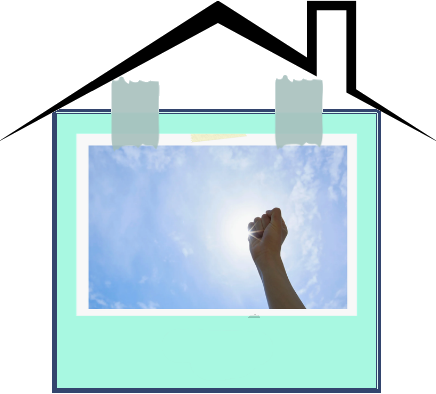
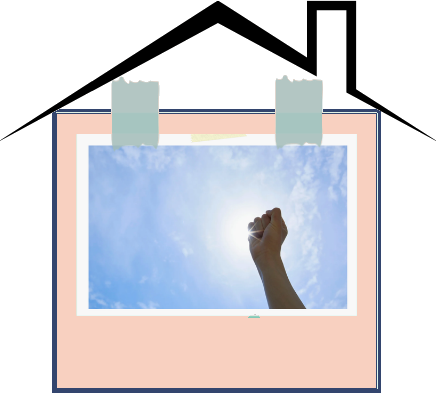
Design updates: home page, subjects page empty-state sheet, header, styles, house images

Changed region(s): [[0.1193, 0.2741, 0.8647, 1.0], [0.3578, 0.2741, 0.656, 0.3655]]

diff --git a/src/components/empty-sheet.tsx b/src/components/empty-sheet.tsx
@@ -1,0 +1,50 @@
+import Link from "next/link";
+import { Home, Mail } from "lucide-react";
+import styles from "./error-sheet.module.css";
+
+/** "אין עדיין מקצועות במאגר" — אותו דף מחברת של דף התקלה, עם אגוז שלם וחותמת "בקרוב". */
+export function EmptySheet() {
+  return (
+    <div className={styles.wrap}>
+      <section className={styles.sheet}>
+        <span className={styles.tape} aria-hidden />
+        <div className={styles.holes} aria-hidden>
+          <span />
+          <span />
+          <span />
+        </div>
+
+        <span className={styles.bsd}>בס&quot;ד</span>
+
+        <div className={styles.nutBox} aria-hidden>
+          <svg className={styles.nut} viewBox="0 0 120 130">
+            <path
+              className={styles.shell}
+              d="M60 14c26 0 46 22 46 52 0 30-18 50-46 50S14 96 14 66c0-30 20-52 46-52z"
+            />
+            <path d="M44 22c8-8 24-8 32 0" />
+            <path d="M30 60c4-18 14-28 24-32" />
+            <ellipse cx="60" cy="124" rx="30" ry="3" />
+          </svg>
+        </div>
+
+        <div className={styles.stamp}>בקרוב</div>
+
+        <h1 className={styles.headline}>המדפים עוד ריקים</h1>
+        <p className={styles.text}>
+          עדיין אין מקצועות במאגר. <span className={styles.mark}>התיקיות הראשונות בדרך</span> —
+          חזרי בקרוב!
+        </p>
+
+        <div className={styles.actions}>
+          <Link href="/" className="btn btn-primary">
+            <Home className="h-4 w-4" aria-hidden /> לדף הבית
+          </Link>
+          <Link href="/contact" className="btn btn-ghost">
+            <Mail className="h-4 w-4" aria-hidden /> כתבי לנו
+          </Link>
+        </div>
+      </section>
+    </div>
+  );
+}

diff --git a/src/app/globals.css b/src/app/globals.css
@@ -471,6 +471,28 @@ body {
   color: var(--ink);
   box-shadow: 0 8px 20px rgba(217, 164, 65, 0.38);
 }
+/* כפתורי "הצטרפות" ו"כניסה" בסרגל העליון: מוקטנים */
+.btn.header-auth {
+  gap: 0.3rem;
+  height: 2.1rem;
+  padding: 0 0.9rem;
+  font-family: var(--font-gveret), var(--font-hand), cursive;
+  font-size: 1rem;
+  font-weight: 400;
+  line-height: 1;
+  /* בלי רקע, כתב ומסגרת זהב (כמו "אני מסוחררת") */
+  background: transparent;
+  color: #e0aa22;
+  border: 2px solid #e0aa22;
+  box-shadow: none;
+}
+.btn.header-auth:hover {
+  background: rgba(224, 170, 34, 0.18);
+}
+.btn.header-auth svg {
+  width: 0.85rem;
+  height: 0.85rem;
+}
 .btn-oak {
   background: var(--sea2);
   color: #fff;
@@ -1014,26 +1036,32 @@ body {
   flex-shrink: 0;
   display: inline-flex;
   align-items: center;
-  gap: 0.4rem;
-  height: 2.25rem;
-  padding: 0 0.85rem;
+  gap: 0.3rem;
+  height: 2.1rem;
+  padding: 0 0.9rem;
   border-radius: 999px;
-  border: 1.5px solid rgba(255, 255, 255, 0.6);
+  border: 2px solid #e0aa22;
   background: transparent;
-  color: #fff;
-  font-size: 0.8125rem;
-  font-weight: 700;
+  color: #e0aa22;
+  font-family: var(--font-gveret), var(--font-hand), cursive;
+  font-size: 1rem;
+  font-weight: 400;
+  line-height: 1;
   white-space: nowrap;
   cursor: pointer;
   transition: background-color 0.15s ease, color 0.15s ease;
 }
+.dizzy-btn svg {
+  width: 0.85rem;
+  height: 0.85rem;
+}
 .dizzy-btn:hover {
-  background: rgba(255, 255, 255, 0.14);
+  background: rgba(224, 170, 34, 0.18);
 }
 .dizzy-btn[aria-pressed="true"] {
-  background: #fff;
+  background: #e0aa22;
   color: var(--sea2);
-  border-color: #fff;
+  border-color: #e0aa22;
 }
 :focus-visible {
   outline: 3px solid var(--sea);

diff --git a/src/app/home.module.css b/src/app/home.module.css
@@ -21,11 +21,10 @@
 }
 .heroBg {
   position: absolute;
-  inset: 1.4%;
+  inset: 0;
   z-index: 0;
   /* הרקע: הרים ולוח שנה, והלוגו בלי מחוגים — המחוגים החיים הם שכבה נפרדת (heroClock) */
   background: url("/images/hero-intro-noclockhands.webp") center / cover no-repeat;
-  border-radius: 22px;
 }
 /* העט שמצייר את הקו מתחת לסלוגן – קצה הפן (הפינה השמאלית-תחתונה של התמונה) יושב בדיוק על נקודת הציור (left/top נקבעים ב-hero-title.tsx) */
 .drawPen {
@@ -209,9 +208,9 @@
 .swoosh {
   position: relative;
   display: block;
-  /* מרווח בצד ימין (תחילת הקו בעברית) בגודל העט, כדי שגוף העט לא ייחתך בקצה האזור כשהוא מתחיל לצייר */
-  margin-inline-start: 72px;
-  width: min(360px, calc(88% - 72px));
+  /* הקו יושב בדיוק מתחת ל"הבית לחומרי הבגרות!": מתחיל בקצה הימני של הטקסט (תחילת הכתיבה בעברית) ומתפרס לרוחב הטקסט (≈5.05em של ה-h1); גוף העט בולט ימינה מעבר לקצה והוא לא נחתך כי ה-hero מרופד */
+  margin-inline-start: 0;
+  width: min(5.05em, 100%);
   margin-top: 10px;
 }
 .swoosh svg {
@@ -227,7 +226,7 @@
   stroke-linecap: round;
 }
 .lead {
-  font-size: 16px;
+  font-size: 18px;
   line-height: 1.5;
   margin: 0 0 20px;
   color: var(--ink);

diff --git a/src/app/subjects/page.tsx b/src/app/subjects/page.tsx
@@ -8,6 +8,7 @@ import type { Category } from "@/db/schema";
 import { AnimatedGrid } from "@/components/animated-grid";
 import { SubjectCard } from "@/components/subject-card";
 import { Breadcrumbs } from "@/components/breadcrumbs";
+import { EmptySheet } from "@/components/empty-sheet";
 export const metadata: Metadata = { title: "המקצועות" };
 export const dynamic = "force-dynamic";
 
@@ -80,11 +81,7 @@ export default async function SubjectsPage({
       </div>
 
       {rows.length === 0 ? (
-        <div className="card mt-10 p-12 text-center">
-          <div className="text-6xl animate-float">🗂</div>
-          <h2 className="mt-4 text-2xl font-bold">עדיין אין מקצועות במאגר</h2>
-          <p className="mt-2 text-muted">התיקיות הראשונות בדרך. חזרי בקרוב!</p>
-        </div>
+        <EmptySheet />
       ) : (
         <AnimatedGrid className="mt-8 grid gap-4 sm:grid-cols-2 md:grid-cols-3 lg:grid-cols-4 xl:grid-cols-5">
           {rows.map(({ subject: s, count }) => (

diff --git a/src/components/header.tsx b/src/components/header.tsx
@@ -89,11 +89,11 @@ export function Header({ user }: { user: HeaderUser }) {
               <Link
                 href="/register"
                 data-tip={"פעם ראשונה באתר?\nפותחים חשבון חדש"}
-                className="text-[15px] font-semibold text-white/90 hover:text-sun px-2 transition-transform hover:-translate-y-0.5"
+                className="btn btn-line-white header-auth"
               >
                 הצטרפות
               </Link>
-              <Link href="/login" data-tip={"כבר יש לך חשבון?\nנכנסים עם המייל והסיסמה"} className="btn btn-gold text-sm py-2.5">
+              <Link href="/login" data-tip={"כבר יש לך חשבון?\nנכנסים עם המייל והסיסמה"} className="btn btn-gold header-auth">
                 <LogIn className="h-4 w-4" /> כניסה
               </Link>
             </>

diff --git a/src/app/page.tsx b/src/app/page.tsx
@@ -100,7 +100,7 @@ export default async function HomePage({
               <HeroTitle name={greetName} />
               <TypewriterLead
                 className={s.lead}
-                text={'כאן תקבלי את המעטפת המושלמת לשיעור מעולה, כזה שמכין את התלמידות שלך למבחני הבגרות בצורה יסודית, מעשירה וחוויתית בלחיצת כפתור!'}
+                text={'כאן תקבלי את המעטפת המלאה לשיעור מעולה, כזה שמכין את התלמידות שלך למבחני הבגרות בצורה יסודית, מעשירה וחוויתית בלחיצת כפתור!'}
               />
               <div className={s.acts}>
                 <Link href={personal ? "/subjects?mine=1" : "/subjects"} className="btn btn-gold btn-gate">

diff --git a/src/app/dev-preview/empty/page.tsx b/src/app/dev-preview/empty/page.tsx
@@ -1,0 +1,8 @@
+import { notFound } from "next/navigation";
+import { EmptySheet } from "@/components/empty-sheet";
+
+/** תצוגה מקדימה של הודעת "אין מקצועות במאגר" – זמין רק בפיתוח מקומי */
+export default function EmptyPreviewPage() {
+  if (process.env.NODE_ENV === "production") notFound();
+  return <EmptySheet />;
+}

diff --git a/src/lib/constants.ts b/src/lib/constants.ts
@@ -203,7 +203,7 @@ export const SUBJECT_HOUSE_COLORS: Record<string, string> = {
   dinim: "#7d8fa3",
   history: "#a68a5c",
   ezrachut: "#6f8faa",
-  sicha: "#6fb8a8",
+  sicha: "#e0a48e",
   chevra: "#d99a5c",
   math: "#7a8a89",
   teacher: "#b0729a",
